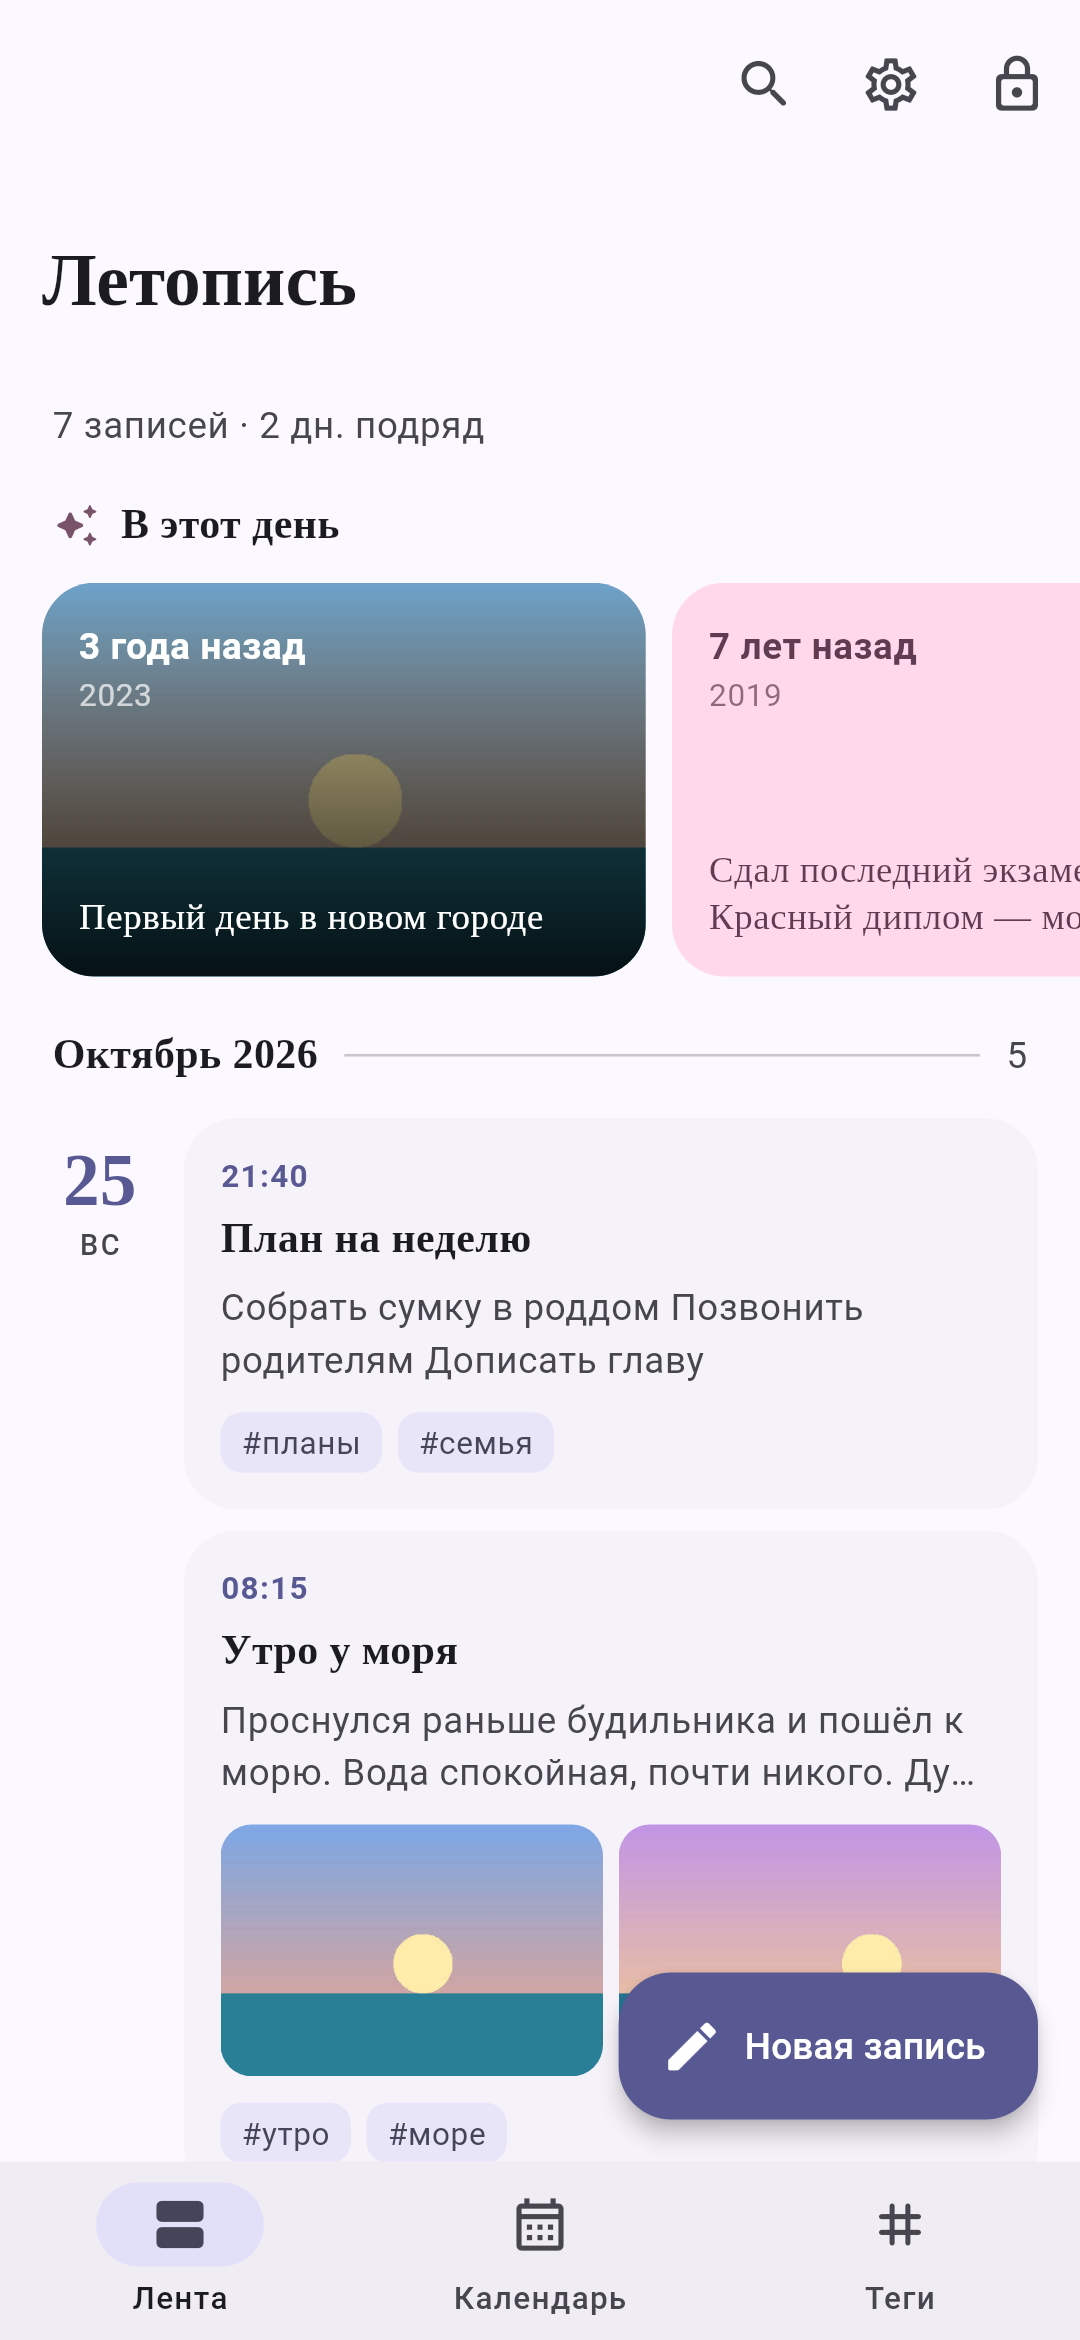
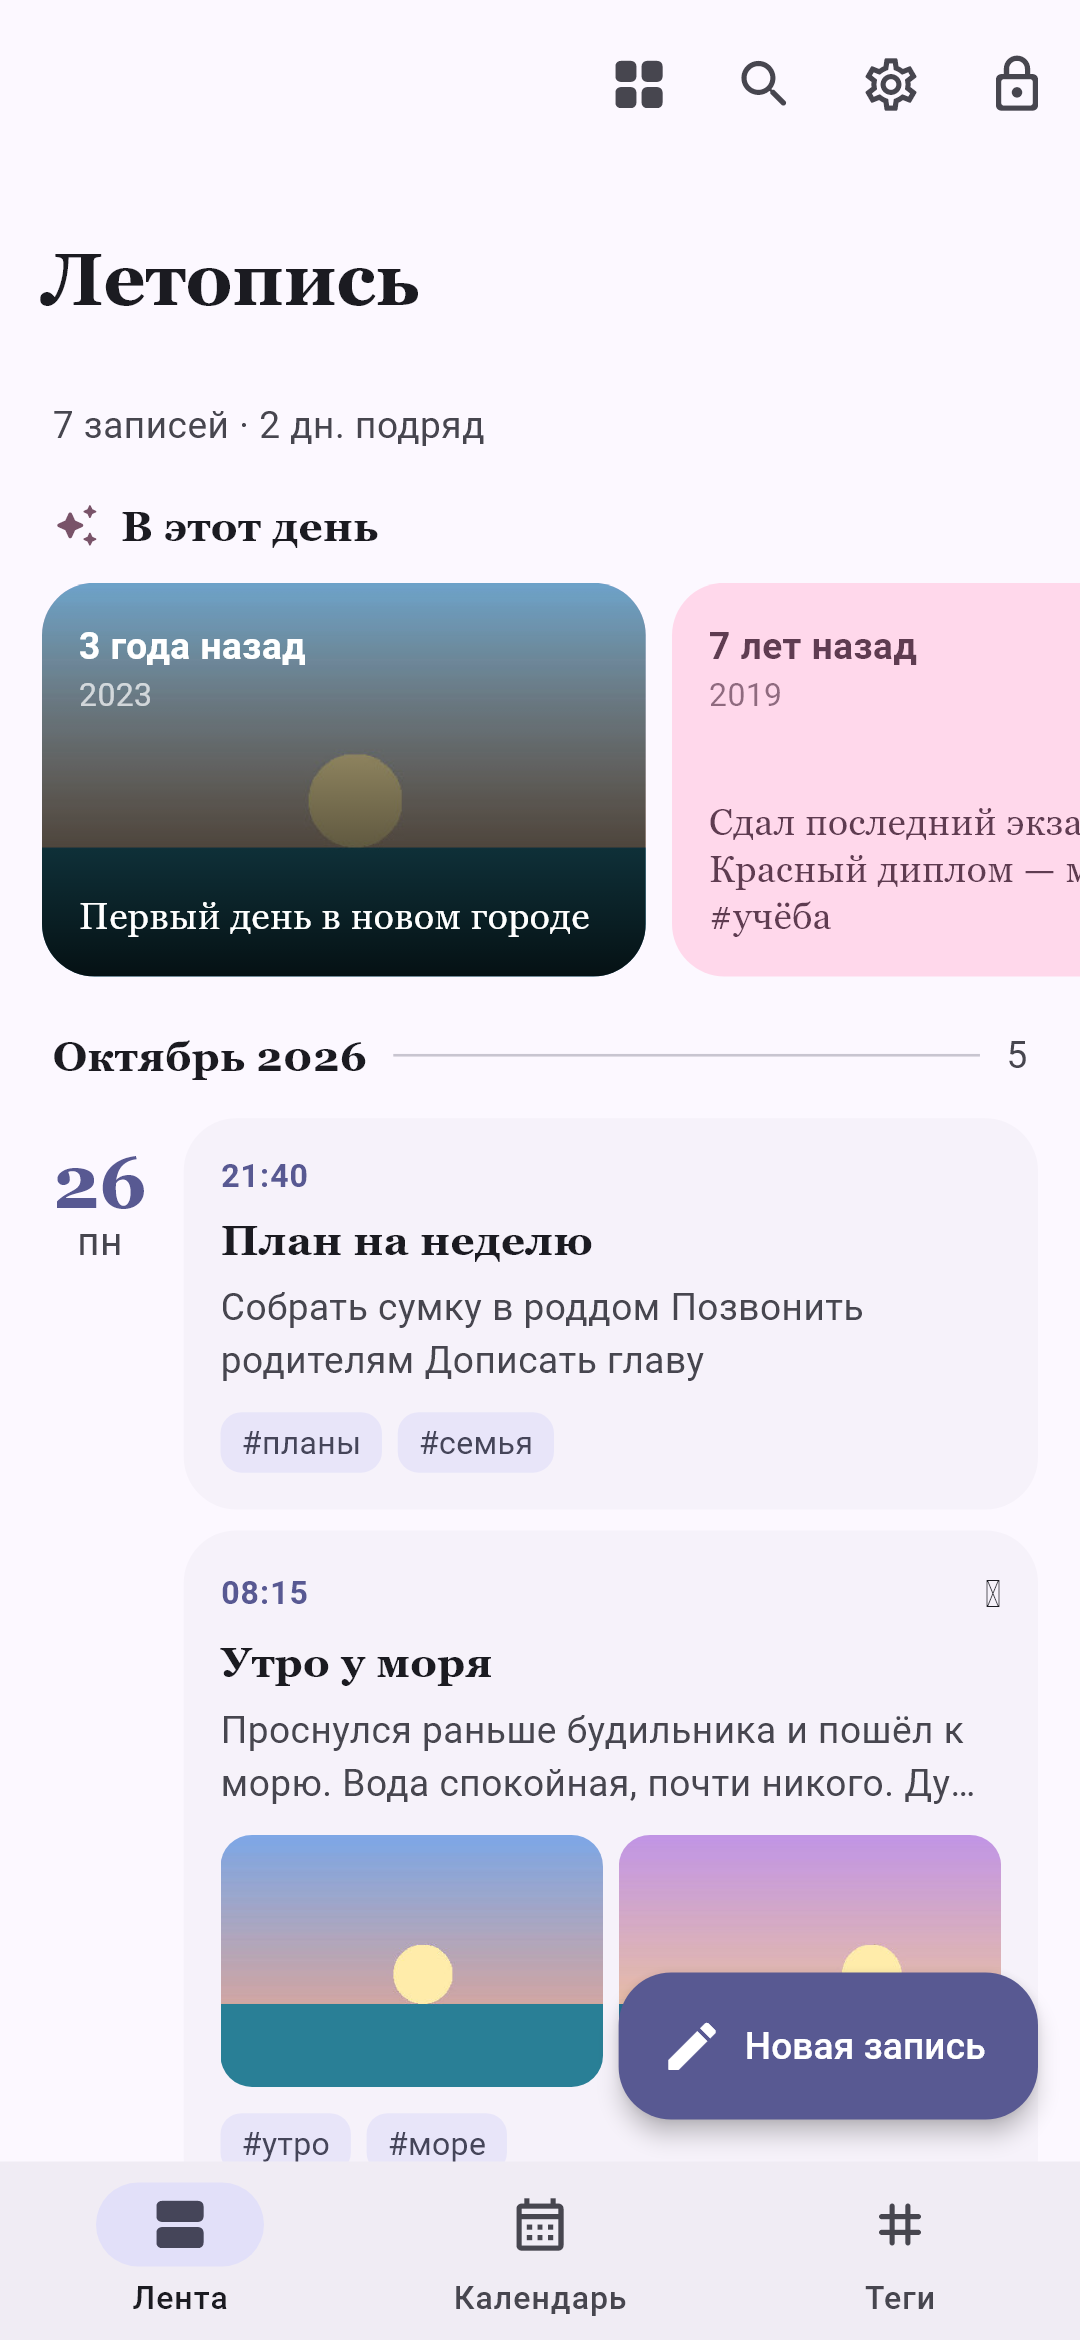
Screenshots: tiles and stats; Windows serif font for tests

diff --git a/test/ui/screenshots_test.dart b/test/ui/screenshots_test.dart
@@ -8,13 +8,17 @@ import 'package:flutter/material.dart';
 import 'package:flutter_test/flutter_test.dart';
 import 'package:image/image.dart' as img;
 import 'package:letopis/core/entry.dart';
+import 'package:letopis/l10n/strings.dart';
 import 'package:letopis/main.dart';
 import 'package:letopis/state/app_state.dart';
 import 'package:letopis/ui/calendar_view.dart';
 import 'package:letopis/ui/editor_screen.dart';
 import 'package:letopis/ui/entry_screen.dart';
 import 'package:letopis/ui/settings/settings_screen.dart';
+import 'package:letopis/ui/settings/stats_screen.dart';
 import 'package:letopis/ui/tags_view.dart';
+
+import 'package:shared_preferences/shared_preferences.dart';
 
 import 'harness.dart';
 
@@ -62,6 +66,7 @@ Future<AppState> seeded({ThemeModeSetting theme = ThemeModeSetting.light, String
       ..body =
           'Проснулся раньше будильника и пошёл к морю. Вода спокойная, почти никого. '
           'Думал о том, как изменится жизнь через пару недель.\n\n> Главное — не торопиться.\n\n#утро #море'
+      ..mood = 4
       ..attachments.addAll([await photo(1), await photo(2)]),
     Entry.create(at: d(0, 21, 40))
       ..title = 'План на неделю'
@@ -97,6 +102,7 @@ Future<void> shot(WidgetTester tester, String name) async {
 
 void main() {
   setUpAll(loadFonts);
+  setUp(() => SharedPreferences.setMockInitialValues({}));
 
   void phone(WidgetTester tester) {
     tester.view.physicalSize = const Size(1080, 2340);
@@ -109,6 +115,10 @@ void main() {
     final app = (await tester.runAsync(seeded))!;
     await tester.pumpWidget(LetopisApp(state: app));
     await shot(tester, '1-timeline');
+    await tester.tap(find.byTooltip(tr('view_tiles')));
+    await shot(tester, '10-tiles');
+    await tester.tap(find.byTooltip(tr('view_list')));
+    await tester.pumpAndSettle();
 
     final first = app.entries.first;
     final nav = tester.state<NavigatorState>(find.byType(Navigator).first);
@@ -142,6 +152,11 @@ void main() {
 
     nav.push(MaterialPageRoute(builder: (_) => const SettingsScreen()));
     await shot(tester, '6-settings');
+    nav.pop();
+    await tester.pumpAndSettle();
+
+    nav.push(MaterialPageRoute(builder: (_) => const StatsScreen()));
+    await shot(tester, '11-stats');
     nav.pop();
     await tester.pumpAndSettle();
 

diff --git a/test/ui/harness.dart b/test/ui/harness.dart
@@ -60,6 +60,8 @@ Future<void> loadFonts() async {
     '/usr/share/fonts/truetype/noto/NotoSerif-SemiBold.ttf',
     '/usr/share/fonts/truetype/liberation/LiberationSerif-Regular.ttf',
     '/usr/share/fonts/truetype/liberation/LiberationSerif-Bold.ttf',
+    'C:/Windows/Fonts/georgia.ttf',
+    'C:/Windows/Fonts/georgiab.ttf',
   ]);
 }
 
